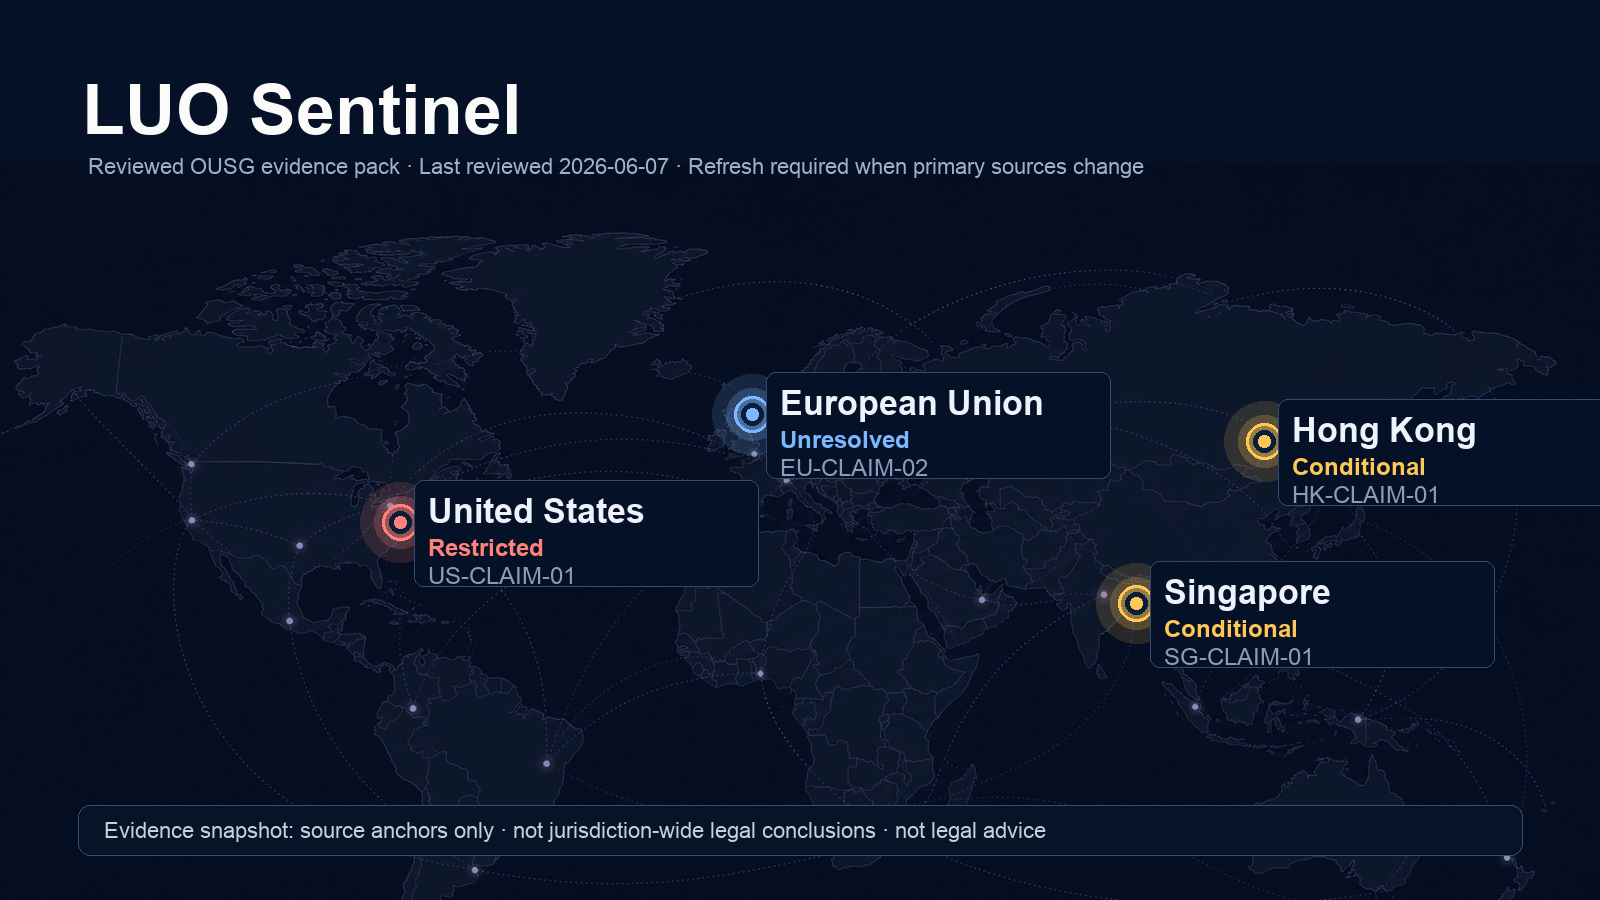
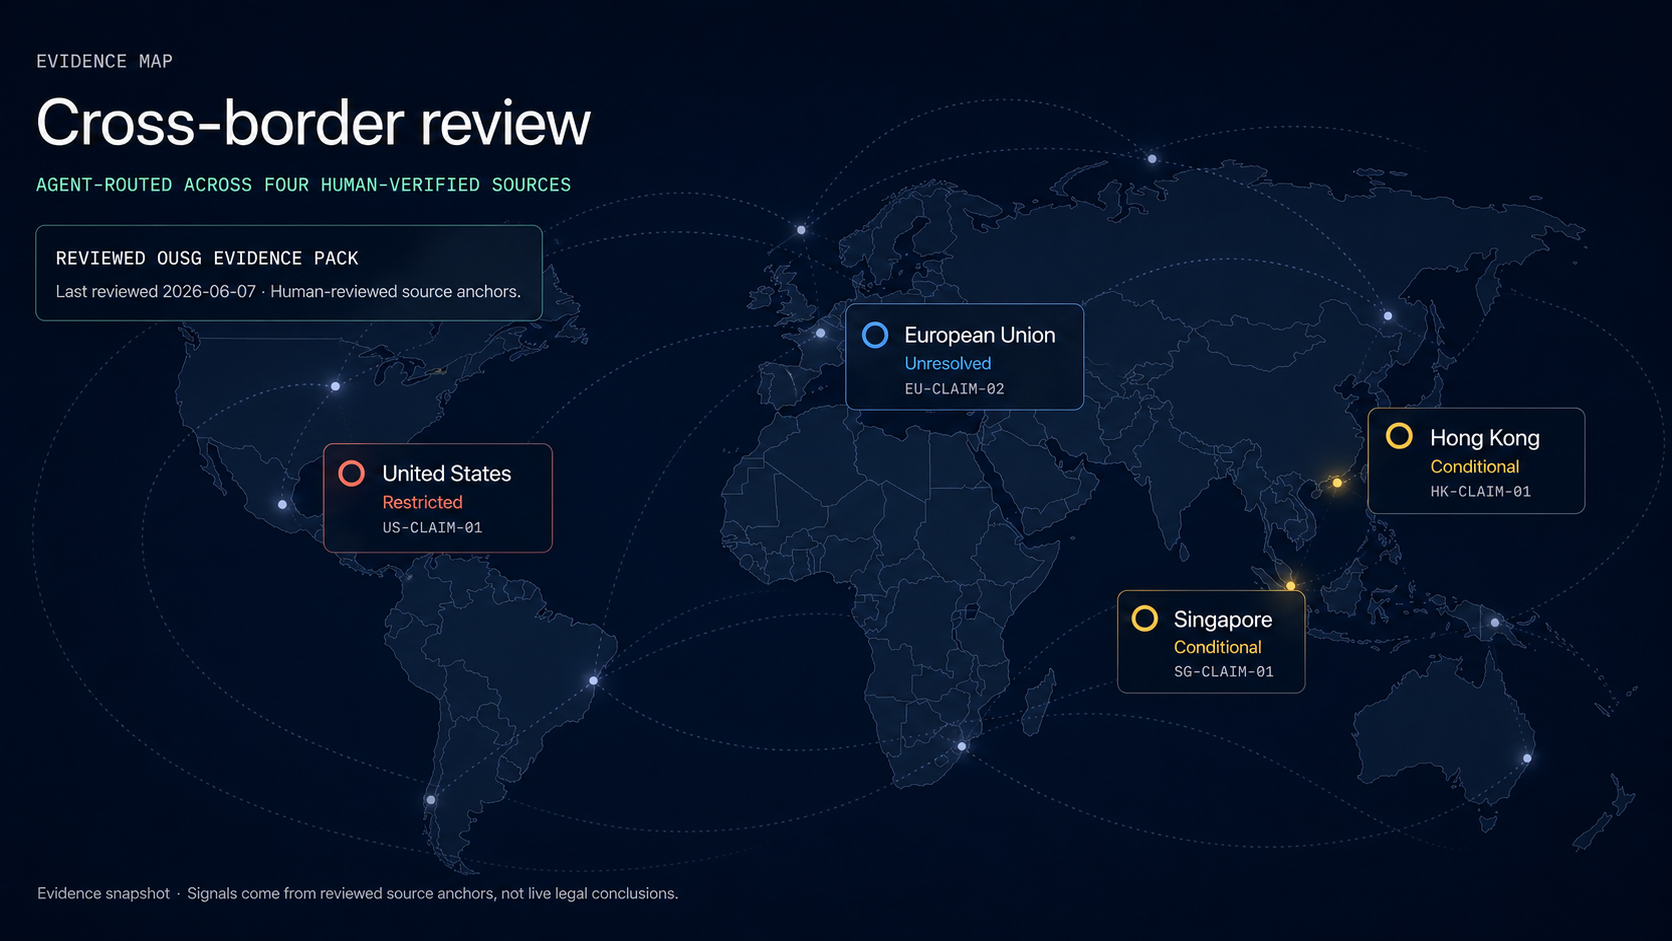
polish evidence map visual

diff --git a/app/src/styles.css b/app/src/styles.css
@@ -26,37 +26,37 @@ button { font: inherit; }
 .testnet-status--error span { background: #ef756f; }
 
 .atlas-layout { width: 100%; flex: 1; position: relative; display: block; }
-.atlas-stage { min-height: 760px; position: relative; overflow: hidden; padding: 76px clamp(28px, 5.5vw, 84px) 48px; border-right: 1px solid rgba(191, 205, 238, .18); background: radial-gradient(circle at 38% 42%, rgba(38, 91, 151, .18), transparent 44%), #041126; }
-.atlas-intro { position: relative; z-index: 2; max-width: 570px; }
+.atlas-stage { min-height: 760px; position: relative; overflow: hidden; padding: 64px clamp(28px, 5.2vw, 72px) 48px; border-right: 1px solid rgba(191, 205, 238, .18); background: radial-gradient(circle at 38% 42%, rgba(38, 91, 151, .18), transparent 44%), #041126; }
+.atlas-intro { position: relative; z-index: 2; max-width: 600px; }
 .atlas-intro p, .decision-rail > p { margin: 0 0 16px; color: #afbad0; font-family: 'DM Mono', monospace; font-size: 11px; letter-spacing: .16em; text-transform: uppercase; }
-.atlas-intro h1 { margin: 0; max-width: 900px; color: #fbfbfa; font: 400 clamp(48px, 4vw, 60px)/.98 'Libre Baskerville', Georgia, serif; letter-spacing: -.07em; }
+.atlas-intro h1 { margin: 0; max-width: 820px; color: #fbfbfa; font: 600 clamp(46px, 4vw, 58px)/1.03 Manrope, system-ui, sans-serif; letter-spacing: 0; }
 .atlas-intro span { display: block; margin-top: 20px; max-width: 390px; color: #aebbd0; font-size: 15px; line-height: 1.7; }
 .atlas-intro span.scope-line { max-width: none; margin-top: 18px; color: #8fe3b0; font-family: 'DM Mono', monospace; font-size: 11px; letter-spacing: .16em; text-transform: uppercase; }
-.map-provenance { display: grid; gap: 5px; width: min(500px, 100%); margin-top: 16px; padding: 11px 13px; color: #b9c4d8; border: 1px solid rgba(143, 227, 176, .22); border-radius: 8px; background: rgba(143, 227, 176, .055); }
+.map-provenance { display: grid; gap: 5px; width: min(460px, 100%); margin-top: 18px; padding: 13px 15px; color: #b9c4d8; border: 1px solid rgba(143, 227, 176, .26); border-radius: 8px; background: rgba(5, 18, 39, .58); backdrop-filter: blur(10px); }
 .map-provenance strong { color: #e8edf8; font: 11px 'DM Mono', monospace; letter-spacing: .08em; text-transform: uppercase; }
 .map-provenance small { color: #a7b5cb; font-size: 12px; line-height: 1.55; }
 .atlas-map { position: absolute; left: -2%; bottom: -3%; width: 106%; opacity: .72; mix-blend-mode: screen; -webkit-mask-image: radial-gradient(ellipse 78% 78% at 50% 55%, #000 54%, rgba(0,0,0,.7) 68%, transparent 100%); mask-image: radial-gradient(ellipse 78% 78% at 50% 55%, #000 54%, rgba(0,0,0,.7) 68%, transparent 100%); }
 .markers { position: absolute; inset: 0; z-index: 2; }
-.marker { position: absolute; display: flex; gap: 12px; align-items: flex-start; padding: 7px 9px; color: #eef2fb; text-align: left; border: 0; background: rgba(4, 17, 38, .24); cursor: pointer; transition: background .2s, transform .2s; }
-.marker:hover, .marker.is-selected { background: rgba(25, 45, 81, .76); transform: translateY(-2px); }
+.marker { position: absolute; display: flex; gap: 13px; align-items: flex-start; min-width: 190px; padding: 14px 16px; color: #eef2fb; text-align: left; border: 1px solid rgba(194, 207, 235, .24); border-radius: 8px; background: rgba(5, 18, 39, .6); box-shadow: 0 18px 40px rgba(0, 0, 0, .18); backdrop-filter: blur(10px); cursor: pointer; transition: border-color .2s, background .2s, transform .2s; }
+.marker:hover, .marker.is-selected { border-color: rgba(194, 207, 235, .44); background: rgba(16, 34, 66, .78); transform: translateY(-2px); }
 .marker.is-out-of-scope { opacity: .34; }
 .marker.is-out-of-scope:hover, .marker.is-out-of-scope.is-selected { opacity: 1; }
-.marker--us { top: 57%; left: 24%; }
-.marker--hong-kong { top: 49%; left: 79%; }
-.marker--singapore { top: 67%; left: 71%; }
-.marker--european-union { top: 46%; left: 47%; }
-.marker-dot { display: block; width: 18px; height: 18px; flex: 0 0 18px; border: 3px solid #0b1d38; border-radius: 50%; box-shadow: 0 0 0 2px currentColor, 0 0 14px currentColor; animation: luo-pulse 2.6s ease-in-out infinite; }
+.marker--us { top: 51%; left: 21%; }
+.marker--hong-kong { top: 46%; left: 78%; }
+.marker--singapore { top: 62%; left: 72%; }
+.marker--european-union { top: 39%; left: 49%; }
+.marker-dot { display: block; width: 18px; height: 18px; flex: 0 0 18px; margin-top: 2px; border: 3px solid #0b1d38; border-radius: 50%; box-shadow: 0 0 0 2px currentColor, 0 0 14px currentColor; animation: luo-pulse 2.6s ease-in-out infinite; }
 .marker:hover .marker-dot, .marker.is-selected .marker-dot { animation-duration: 1.4s; box-shadow: 0 0 0 2px currentColor, 0 0 30px currentColor; }
 @keyframes luo-pulse { 0%, 100% { box-shadow: 0 0 0 2px currentColor, 0 0 10px currentColor; } 50% { box-shadow: 0 0 0 2px currentColor, 0 0 26px currentColor; } }
 .marker-dot--coral { color: #ff827a; background: #ff827a; }
 .marker-dot--gold { color: #ffc756; background: #ffc756; }
 .marker-dot--blue { color: #7cb8ff; background: #7cb8ff; }
 .marker-copy { display: grid; gap: 2px; }
-.marker-copy strong { font: 400 21px/1.05 'Libre Baskerville', Georgia, serif; }
-.marker-copy em { font-style: normal; font-size: 13px; }
+.marker-copy strong { color: #f3f6fc; font: 700 18px/1.15 Manrope, system-ui, sans-serif; letter-spacing: 0; }
+.marker-copy em { font-style: normal; font-size: 13px; font-weight: 600; }
 .marker--us em { color: #ff9b96; }.marker--hong-kong em, .marker--singapore em { color: #ffd475; }.marker--european-union em { color: #a6ceff; }
 .marker-copy small { color: #8d9bb6; font: 10px 'DM Mono', monospace; }
-.map-note { position: absolute; left: clamp(28px, 5.5vw, 84px); bottom: 26px; z-index: 2; max-width: 500px; color: #8391ad; font-size: 11px; line-height: 1.6; }
+.map-note { position: absolute; left: clamp(28px, 5.2vw, 72px); bottom: 26px; z-index: 2; max-width: 640px; color: #8391ad; font-size: 11px; line-height: 1.6; background: transparent; border: 0; }
 .map-note span { color: #c6cfdf; font-family: 'DM Mono', monospace; margin-right: 8px; text-transform: uppercase; font-size: 10px; }
 
 .decision-rail { padding: 76px clamp(25px, 3vw, 50px) 46px; background: rgba(3, 12, 29, .76); }